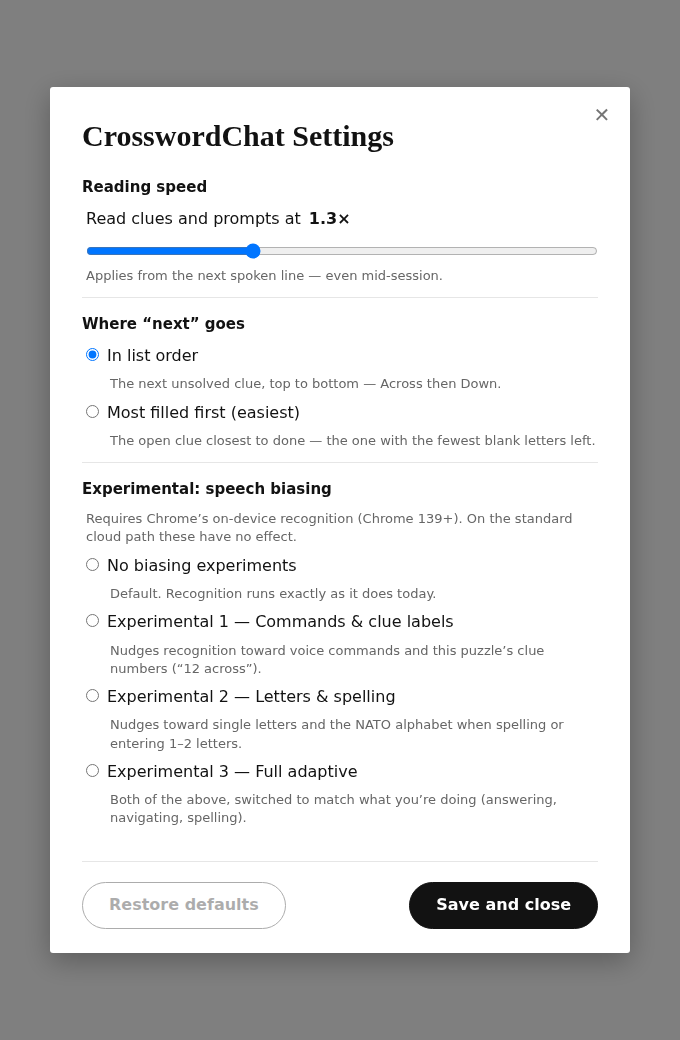
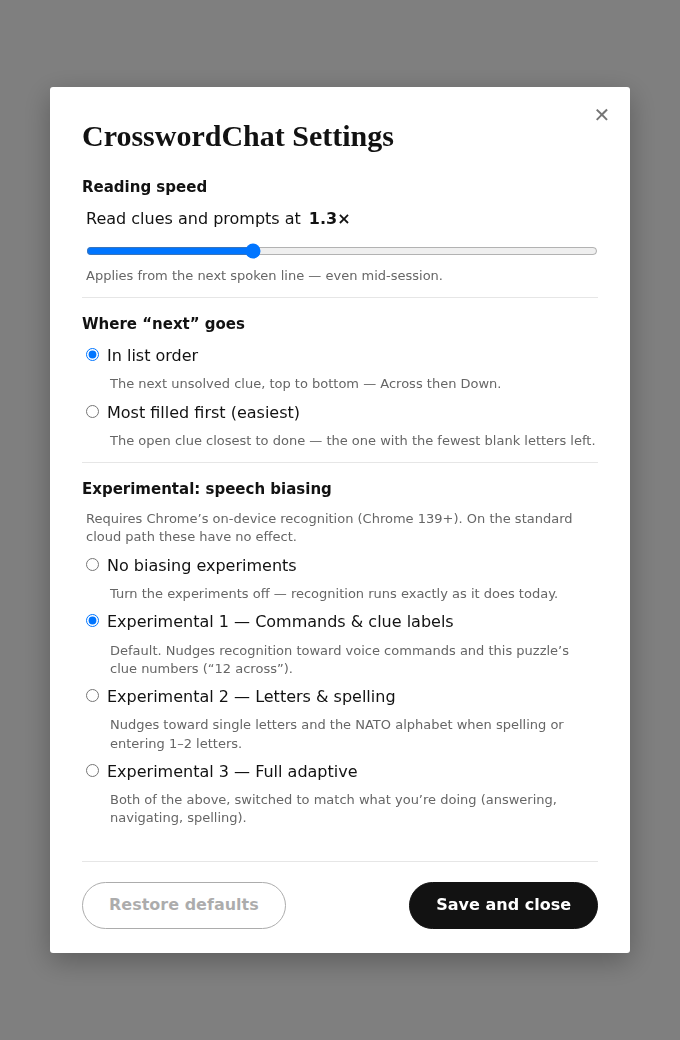
Default biasing to Experiment 1; fix modal default-radio selection
Per owner: the default is now an actual experiment (commands), not "off" —
"no bias" is a deliberate opt-out the user selects, not the default. Change
DEFAULT_BIASING to 'commands' (still inert on the cloud path, so no change
for cloud-path users) and move the "Default." hint accordingly.

Also fixes a real rendering bug in the in-page settings modal: its static
markup marked the default strategy radio `checked` but never marked any
biasing radio, so the modal showed no biasing option selected. Mark the
default biasing radio `checked` in settingsModalMarkup (mirroring the
strategy radio).

Updated REQ-SPCH-011, settings tests, and the modal/popup UI goldens.

Claude-Session: https://claude.ai/code/session_011tJ797TzpJssAg8Ym7BMaW

diff --git a/extension-test/unit/settings.test.js b/extension-test/unit/settings.test.js
@@ -24,24 +24,25 @@ describe('persisted settings (REQ-NAV-012)', () => {
   test('REQ-NAV-012: settings round-trip through chrome.storage.sync', async () => {
     fakeChromeStorage();
     await saveSettings({ strategy: 'most-filled', rate: 1.7 });
-    expect(await loadSettings()).toEqual({ strategy: 'most-filled', rate: 1.7, biasing: 'off' });
+    expect(await loadSettings()).toEqual({ strategy: 'most-filled', rate: 1.7, biasing: 'commands' });
   });
 
   test('REQ-NAV-012: unknown stored values are sanitized to the defaults', async () => {
     fakeChromeStorage({ strategy: 'bogus', rate: 'fast', junk: 42 });
-    expect(await loadSettings()).toEqual({ strategy: 'list-order', rate: 1.3, biasing: 'off' });
+    expect(await loadSettings()).toEqual({ strategy: 'list-order', rate: 1.3, biasing: 'commands' });
     expect(sanitizeSettings({})).toEqual(DEFAULT_SETTINGS);
     expect(sanitizeSettings(null)).toEqual(DEFAULT_SETTINGS);
   });
 
-  test('REQ-SPCH-011: the biasing mode round-trips; unknown → off; default is off', async () => {
+  test('REQ-SPCH-011: the biasing mode round-trips; default is commands; off is an explicit choice', async () => {
     fakeChromeStorage();
     await saveSettings({ strategy: 'list-order', rate: 1.3, biasing: 'full' });
     expect((await loadSettings()).biasing).toBe('full');
-    expect(sanitizeSettings({ biasing: 'commands' }).biasing).toBe('commands');
-    expect(sanitizeSettings({ biasing: 'bogus' }).biasing).toBe('off');
-    expect(sanitizeSettings({}).biasing).toBe('off');
-    expect(DEFAULT_SETTINGS.biasing).toBe('off');
+    expect(sanitizeSettings({ biasing: 'spelling' }).biasing).toBe('spelling');
+    expect(sanitizeSettings({ biasing: 'off' }).biasing).toBe('off'); // "no bias" is a real selection
+    expect(sanitizeSettings({ biasing: 'bogus' }).biasing).toBe('commands'); // unknown → the default
+    expect(sanitizeSettings({}).biasing).toBe('commands');
+    expect(DEFAULT_SETTINGS.biasing).toBe('commands');
   });
 
   test('REQ-SPCH-001: the default reading speed is 1.3×', () => {

diff --git a/extension/src/shared/biasing-modes.js b/extension/src/shared/biasing-modes.js
@@ -4,7 +4,10 @@
 // silently resets every user's stored choice.
 
 export const BIASING_MODES = ['off', 'commands', 'spelling', 'full'];
-export const DEFAULT_BIASING = 'off';
+// The default is an actual experiment (commands) — "off" is a deliberate opt-out the user
+// selects, not the default. Biasing only does anything on Chrome's on-device path, so this is
+// inert for cloud-path users regardless (REQ-SPCH-011).
+export const DEFAULT_BIASING = 'commands';
 
 // One line the settings UIs show above the group: biasing only does anything on Chrome's
 // on-device recognition path, so on the default cloud path these are inert (REQ-SPCH-011).
@@ -14,9 +17,9 @@ export const BIASING_NOTE = 'Requires Chrome’s on-device recognition (Chrome 1
 // value → { label, hint } for the radio group. Kept next to the ids so the two never drift.
 export const BIASING_CHOICES = [
   { value: 'off', label: 'No biasing experiments',
-    hint: 'Default. Recognition runs exactly as it does today.' },
+    hint: 'Turn the experiments off — recognition runs exactly as it does today.' },
   { value: 'commands', label: 'Experimental 1 — Commands & clue labels',
-    hint: 'Nudges recognition toward voice commands and this puzzle’s clue numbers (“12 across”).' },
+    hint: 'Default. Nudges recognition toward voice commands and this puzzle’s clue numbers (“12 across”).' },
   { value: 'spelling', label: 'Experimental 2 — Letters & spelling',
     hint: 'Nudges toward single letters and the NATO alphabet when spelling or entering 1–2 letters.' },
   { value: 'full', label: 'Experimental 3 — Full adaptive',

diff --git a/extension/src/page-adapter/settings-modal.js b/extension/src/page-adapter/settings-modal.js
@@ -16,7 +16,7 @@
 import {
   loadSettings, saveSettings, DEFAULT_SETTINGS, RATE_MIN, RATE_MAX,
 } from '../settings/settings.js';
-import { BIASING_CHOICES, BIASING_NOTE } from '../shared/biasing-modes.js';
+import { BIASING_CHOICES, BIASING_NOTE, DEFAULT_BIASING } from '../shared/biasing-modes.js';
 
 export const MODAL_ID = 'cc-settings-modal';
 
@@ -81,8 +81,8 @@ export const SETTINGS_MODAL_CSS = `
 #${MODAL_ID} .cc-secondary[disabled] { opacity: 0.35; cursor: default; }
 `;
 
-// The dialog markup in its fresh-install default state (list-order, 1.3×) — the state
-// the golden captures and the state mount() starts from before loadSettings resolves.
+// The dialog markup in its fresh-install default state (list-order, 1.3×, commands biasing) —
+// the state the golden captures and the state mount() starts from before loadSettings resolves.
 export function settingsModalMarkup() {
   return `
 <div id="${MODAL_ID}" role="dialog" aria-modal="true" aria-label="CrosswordChat settings">
@@ -117,7 +117,7 @@ export function settingsModalMarkup() {
         <header class="cc-heading">Experimental: speech biasing</header>
         <div class="cc-inset">
           <p class="cc-hint">${esc(BIASING_NOTE)}</p>${BIASING_CHOICES.map(({ value, label, hint }) => `
-          <label><input type="radio" name="cc-biasing" value="${value}">
+          <label><input type="radio" name="cc-biasing" value="${value}"${value === DEFAULT_BIASING ? ' checked' : ''}>
             <span>${esc(label)}</span></label>
           <p class="cc-hint cc-indent">${esc(hint)}</p>`).join('')}
         </div>

diff --git a/extension/src/options/options.html b/extension/src/options/options.html
@@ -54,12 +54,12 @@
     <label>
       <input type="radio" name="biasing" value="off">
       No biasing experiments
-      <small>Default. Recognition runs exactly as it does today.</small>
+      <small>Turn the experiments off — recognition runs exactly as it does today.</small>
     </label>
     <label>
       <input type="radio" name="biasing" value="commands">
       Experimental 1 — Commands &amp; clue labels
-      <small>Nudges recognition toward voice commands and this puzzle’s clue numbers (“12 across”).</small>
+      <small>Default. Nudges recognition toward voice commands and this puzzle’s clue numbers (“12 across”).</small>
     </label>
     <label>
       <input type="radio" name="biasing" value="spelling">

diff --git a/dev/requirements/ui/cases/settings-popup.case.js b/dev/requirements/ui/cases/settings-popup.case.js
@@ -16,7 +16,7 @@ function prep() {
   slider.value = 1.3;
   document.querySelector('#rate-value').value = '1.3×';
   for (const r of document.querySelectorAll('input[name="strategy"]')) r.checked = r.value === 'list-order';
-  for (const r of document.querySelectorAll('input[name="biasing"]')) r.checked = r.value === 'off';
+  for (const r of document.querySelectorAll('input[name="biasing"]')) r.checked = r.value === 'commands';
 }
 
 export default {

diff --git a/dev/docs/REQUIREMENTS.md b/dev/docs/REQUIREMENTS.md
@@ -1443,13 +1443,14 @@ _UI goldens — generated from the shipped code by `npm run refresh:ui`:_
   `available`) and only then set `processLocally = true` and populate `phrases`; when unavailable it
   MUST run the ordinary cloud path unchanged — no error, no behavior change (this realizes, for
   biasing, the on-device path noted in REQ-FUT-006). The phrase set is mode-scoped and selected by a
-  persisted experimental setting (REQ-NAV-012) with four values: `off` (default — no biasing),
-  `commands` (the command lexicon + the loaded puzzle's real clue labels, graduated so the current
-  entry's crossings are boosted highest), `spelling` (the 26 single letters + NATO + letter-names,
-  applied in spelling mode and on 1–2 open-square entries), and `full` (both, plus
-  yes/no/first-second during confirmation and disambiguation). No answer word is ever biased — the
-  answer is unknown by design (§2). Biasing changes only recognition inputs; matching (REQ-ANS-*) is
-  unaffected.
+  persisted experimental setting (REQ-NAV-012) with four values: `commands` (default — the command
+  lexicon + the loaded puzzle's real clue labels, graduated so the current entry's crossings are
+  boosted highest), `spelling` (the 26 single letters + NATO + letter-names, applied in spelling mode
+  and on 1–2 open-square entries), `full` (both, plus yes/no/first-second during confirmation and
+  disambiguation), and `off` (a deliberate opt-out — no biasing). Biasing is inert on the cloud path
+  regardless of the setting, so `commands` as the default changes nothing for cloud-path users. No
+  answer word is ever biased — the answer is unknown by design (§2). Biasing changes only recognition
+  inputs; matching (REQ-ANS-*) is unaffected.
 - **Accept:** Given a recognizer whose on-device biasing is available and a `commands` setting, then
   the listen cycle sets `processLocally = true` and pushes the command + clue-label phrases; given a
   recognizer without the phrases API (or on-device unavailable), then no phrases are set and the